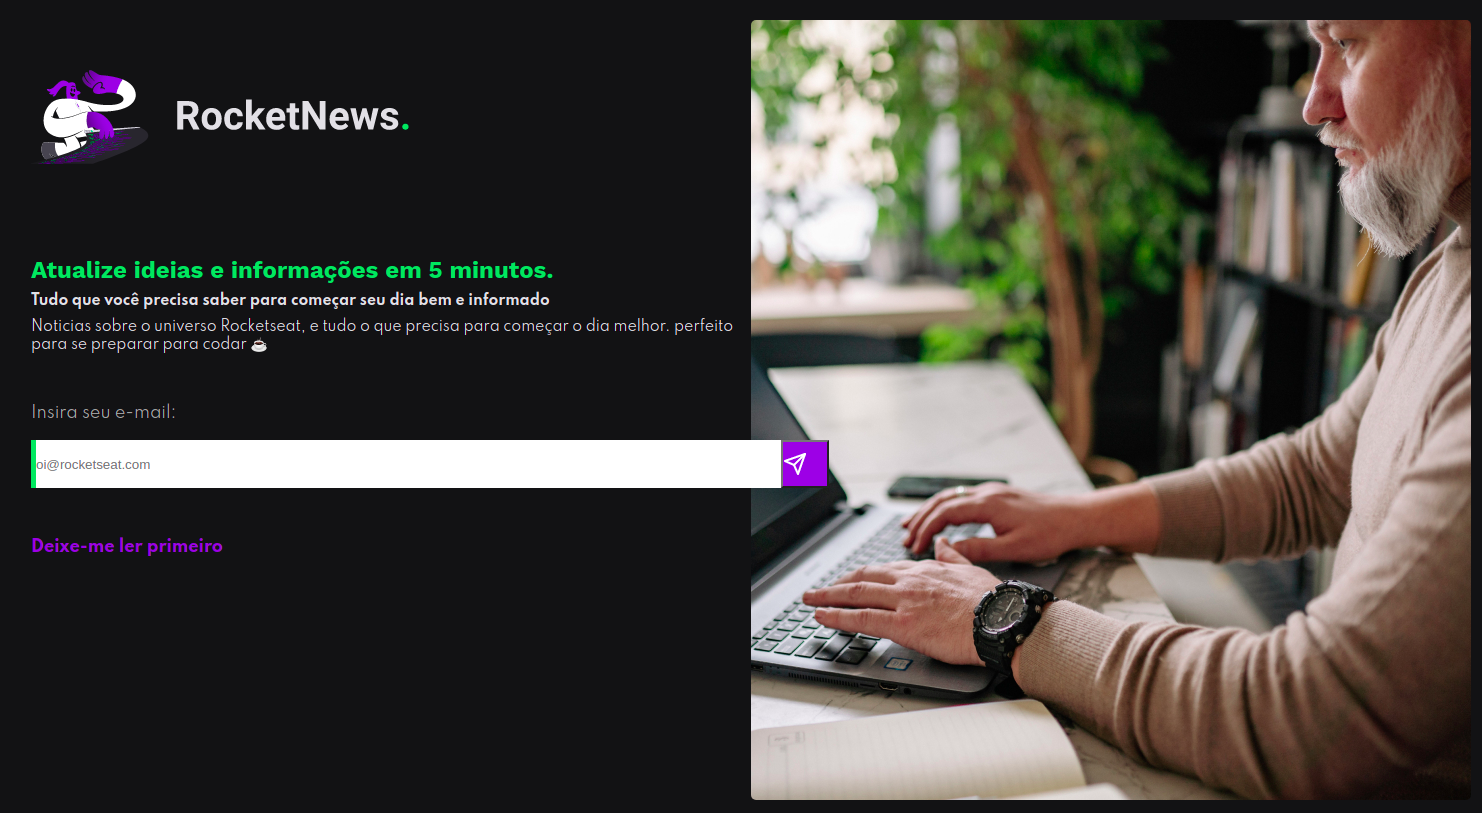
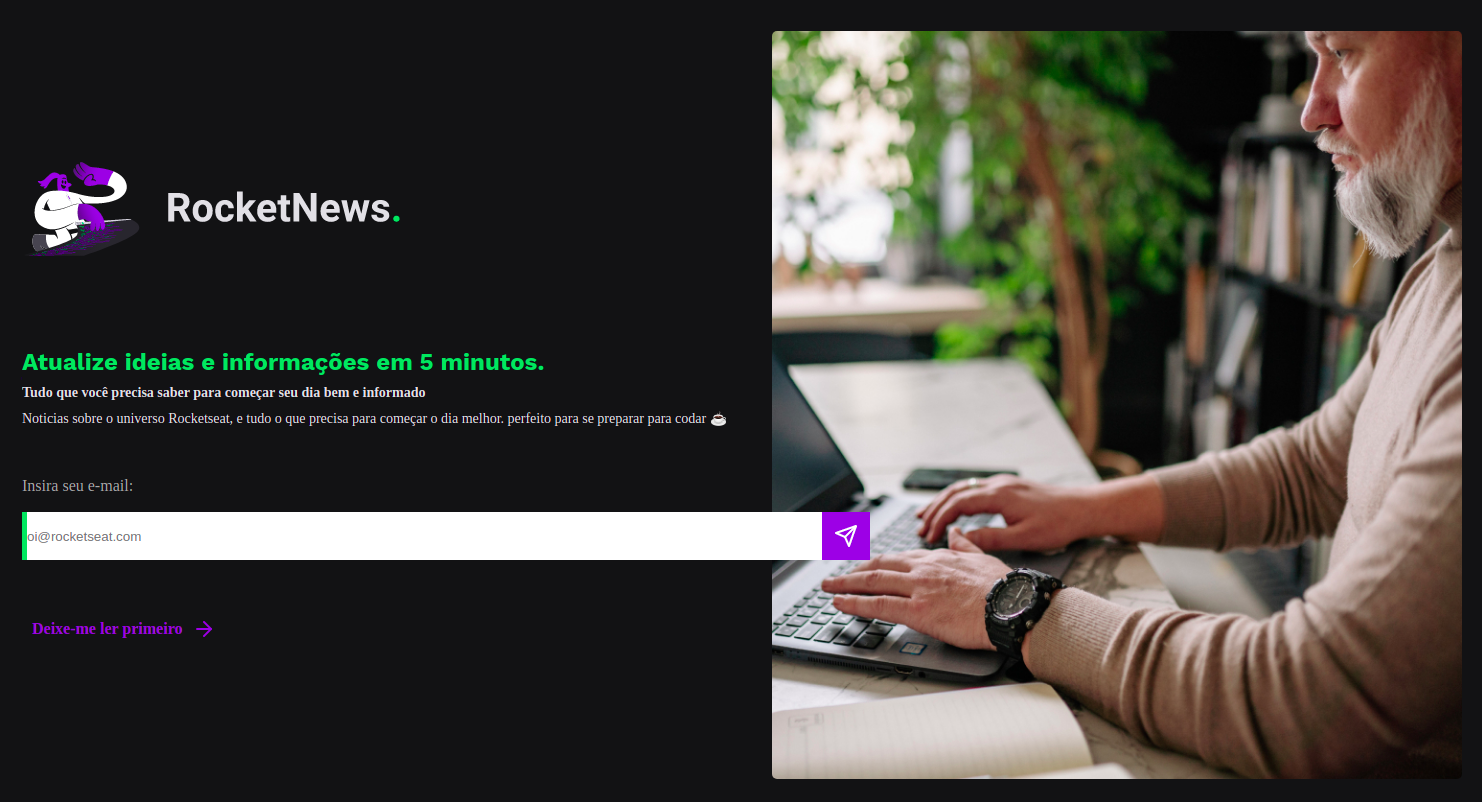
Update index.html and style.css

Changed region(s): [[0.0, 0.0, 0.9933, 0.9975], [0.031, 0.7793, 0.1242, 0.8105]]

diff --git a/src/index.html b/src/index.html
@@ -11,6 +11,7 @@
       href="https://fonts.googleapis.com/css2?family=Spartan:wght@400;500;700&family=Work+Sans:ital,wght@0,400;0,500;0,700;1,500;1,700&display=swap"
       rel="stylesheet"
     />
+    <link rel="shortcut icon" href="../img/icon.png" type="image/x-icon" />
     <title>Newsletter</title>
   </head>
   <body>
@@ -48,18 +49,21 @@
           </form>
         </fieldset>
 
-        <a
-          href="https://blog.rocketseat.com.br/"
-          class="link_news"
-          target="_blank"
-          >Deixe-me ler primeiro</a
-        >
+        <div class="container_link">
+          <a
+            href="https://blog.rocketseat.com.br/"
+            class="link_news"
+            target="_blank"
+            >Deixe-me ler primeiro
+          </a>
+          <img src="/img/arrow-right.svg" alt="img-arrow-right" />
+        </div>
       </section>
 
       <section class="img_illustrative">
         <h2>Serção da imagem</h2>
         <figure>
-          <img src="/img/read_news.jpg" alt="img_illustrative" />
+          <img src="/img/read_news.jpg" alt="img-read_news" />
         </figure>
       </section>
     </main>

diff --git a/style/style.css b/style/style.css
@@ -126,6 +126,12 @@ button img {
   text-decoration: none;
   font-weight: bold;
   color: var(--bg-button-color);
+  margin: 10px;
+}
+
+.container_link {
+  display: flex;
+  align-self: center;
 }
 
 /* Right */
